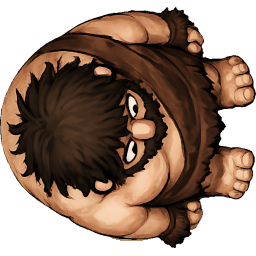
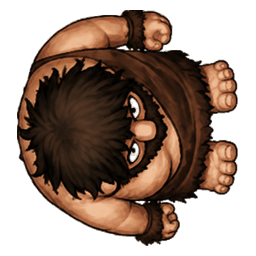
CAVEPACKER: animate player

diff --git a/src/modules/client/entities/ClientEntity.cpp b/src/modules/client/entities/ClientEntity.cpp
@@ -11,9 +11,10 @@
 
 ClientEntity::ClientEntity (const EntityType& type, uint16_t id, float x, float y, float sizeX, float sizeY,
 		const SoundMapping& soundMapping, EntityAlignment align, EntityAngle angle) :
-		_type(type), _id(id), _angle(angle), _time(0), _currSprite(), _state(0), _animation(&Animation::NONE), _theme(&ThemeType::NONE), _fadeOutTime(
-				0), _alpha(1.0f), _ropeEntity(nullptr), _animationSound(-1), _soundMapping(soundMapping), _visible(true), _visChanged(false), _align(
-				align), _screenPosX(0), _screenPosY(0), _screenWidth(0), _screenHeight(0)
+		_lerpDuration(0), _lerpElapsed(0), _type(type), _id(id), _angle(angle), _time(0), _currSprite(), _state(0),
+		_animation(&Animation::NONE), _theme(&ThemeType::NONE), _fadeOutTime(0), _alpha(1.0f), _ropeEntity(nullptr),
+		_animationSound(-1), _soundMapping(soundMapping), _visible(true), _visChanged(false), _align(align),
+		_screenPosX(0), _screenPosY(0), _screenWidth(0), _screenHeight(0)
 {
 	const vec2 startPos(x, y);
 	_prevPos = _nextPos = _pos = startPos;
@@ -210,21 +211,35 @@ void ClientEntity::setAnimationType (const Animation& animation)
 	setScreenSize(_currSprite->getMaxWidth(), _currSprite->getMaxHeight());
 }
 
-bool ClientEntity::update (uint32_t deltaTime, bool lerpPos)
+bool ClientEntity::update (uint32_t deltaTime, bool lerpPos, bool animateSpriteAlways)
 {
 	static const float interval = Constant::FPS_SERVER / (float) Constant::FPS_CLIENT;
 	_time += deltaTime;
+	bool moveLerpActive = false;
 	if (lerpPos) {
-		const vec2 before = _pos - _nextPos;
-		if (!before.isZero(0.01f)) {
-			const vec2 inc = interval * (_nextPos - _prevPos);
-			_pos += inc;
+		if (_lerpDuration > 0) {
+			_lerpElapsed = std::min(_lerpDuration, _lerpElapsed + deltaTime);
+			const float t = static_cast<float>(_lerpElapsed) / static_cast<float>(_lerpDuration);
+			_pos = _prevPos + (_nextPos - _prevPos) * t;
+			moveLerpActive = _lerpElapsed < _lerpDuration;
 		} else {
-			_pos = _nextPos;
+			const vec2 before = _pos - _nextPos;
+			if (!before.isZero(0.01f)) {
+				const vec2 inc = interval * (_nextPos - _prevPos);
+				_pos += inc;
+				moveLerpActive = true;
+			} else {
+				_pos = _nextPos;
+			}
 		}
 	}
 	if (_currSprite) {
-		_currSprite->update(deltaTime);
+		if (animateSpriteAlways || moveLerpActive) {
+			_currSprite->update(deltaTime);
+		} else if (!animateSpriteAlways) {
+			// Idle pose between grid steps
+			_currSprite->setCurrentFrame(0);
+		}
 	}
 
 	if (_visChanged) {
@@ -248,14 +263,30 @@ bool ClientEntity::update (uint32_t deltaTime, bool lerpPos)
 	return true;
 }
 
-void ClientEntity::setPos (const vec2& pos, bool lerp)
+void ClientEntity::setPos (const vec2& pos, bool lerp, uint32_t durationMillis)
 {
 	if (lerp) {
-		_prevPos = _nextPos;
+		// State-only updates (same cell) must not restart or snap the in-progress move.
+		if ((_nextPos - pos).isZero(0.01f)) {
+			return;
+		}
+		if (durationMillis > 0) {
+			// Discrete grid moves: continue from the current visual position.
+			_prevPos = _pos;
+			_lerpDuration = durationMillis;
+			_lerpElapsed = 0;
+		} else {
+			// Legacy CaveExpress-style snapshot lerp between server ticks.
+			_prevPos = _nextPos;
+			_lerpDuration = 0;
+			_lerpElapsed = 0;
+		}
 		_nextPos = pos;
 		_pos = _prevPos;
 	} else {
 		_prevPos = _nextPos = _pos = pos;
+		_lerpDuration = 0;
+		_lerpElapsed = 0;
 	}
 }
 

diff --git a/src/modules/client/entities/ClientEntity.h b/src/modules/client/entities/ClientEntity.h
@@ -40,11 +40,21 @@ public:
 	SpritePtr& getSprite ();
 	const vec2& getPos () const;
 	const vec2& getSize () const;
-	virtual bool update (uint32_t deltaTime, bool lerpPos);
+	/**
+	 * @param[in] animateSpriteAlways if false, multi-frame sprites only advance while a timed move lerp is active
+	 */
+	virtual bool update (uint32_t deltaTime, bool lerpPos, bool animateSpriteAlways = true);
+
+	/** When true and the map uses timed grid lerps, walk frames only advance while sliding between cells. */
+	virtual bool animateSpriteOnlyWhenMoving () const { return false; }
 	void setAnimationType (const Animation& type);
 	void setThemeType (const ThemeType& theme);
 	virtual std::string getSpriteName() const;
-	void setPos (const vec2& pos, bool lerp);
+	/**
+	 * @param[in] lerp whether to interpolate toward @c pos
+	 * @param[in] durationMillis time-based lerp duration; 0 keeps the legacy frame-ratio lerp
+	 */
+	void setPos (const vec2& pos, bool lerp, uint32_t durationMillis = 0);
 	Direction getMoveDirection ();
 	void setAngle (int16_t angle);
 	void initFadeOut ();
@@ -131,6 +141,9 @@ protected:
 	vec2 _nextPos;
 	// used for lerping the position
 	vec2 _prevPos;
+	// time-based lerp (durationMillis > 0 in setPos); 0 means legacy frame-ratio lerp
+	uint32_t _lerpDuration;
+	uint32_t _lerpElapsed;
 	// the size of the entity. This might differ from what the physical size is in the server
 	vec2 _size;
 	const EntityType &_type;

diff --git a/src/modules/client/ClientMap.cpp b/src/modules/client/ClientMap.cpp
@@ -415,8 +415,10 @@ void ClientMap::update (uint32_t deltaTime)
 	}
 	const ExecutionTime updateTime("ClientMap", 2000L);
 	const bool lerp = wantLerp();
+	const bool timedGridLerp = getEntityMoveLerpMillis() != 0;
 	for (ClientEntityMapIter i = _entities.begin(); i != _entities.end();) {
-		const bool val = i->second->update(deltaTime, lerp);
+		const bool animateSpriteAlways = !timedGridLerp || !i->second->animateSpriteOnlyWhenMoving();
+		const bool val = i->second->update(deltaTime, lerp, animateSpriteAlways);
 		if (!val) {
 			delete i->second;
 			_entities.erase(i++);
@@ -490,7 +492,7 @@ bool ClientMap::updateEntity (uint16_t id, float x, float y, EntityAngle angle, 
 {
 	const ClientEntityMapIter& iter = _entities.find(id);
 	if (iter != _entities.end()) {
-		iter->second->setPos(vec2(x, y), wantLerp());
+		iter->second->setPos(vec2(x, y), wantLerp(), getEntityMoveLerpMillis());
 		iter->second->setAngle(angle);
 		iter->second->changeState(state);
 		return true;

diff --git a/src/cavepacker/client/CavePackerClientMap.cpp b/src/cavepacker/client/CavePackerClientMap.cpp
@@ -15,6 +15,7 @@ CavePackerClientMap::CavePackerClientMap(int x, int y, int width, int height,
 		IFrontend *frontend, ServiceProvider& serviceProvider, int referenceTileWidth) :
 		ClientMap(x, y, width, height, frontend, serviceProvider, referenceTileWidth), _target(nullptr), _targetEnts(0u) {
 	_deadlockOverlay = UI::get().loadSprite("deadlock");
+	_moveLerpMillis = Config.getConfigVar("clientmovelerpmillis", "200");
 }
 
 void CavePackerClientMap::onWindowResize () {
@@ -58,6 +59,11 @@ void CavePackerClientMap::renderLayer (int x, int y, Layer layer) const {
 
 void CavePackerClientMap::start() {
 	ClientMap::start();
+}
+
+uint32_t CavePackerClientMap::getEntityMoveLerpMillis () const {
+	// Slightly under the 250ms pathfinding/auto-solve step so chained grid moves stay readable.
+	return _moveLerpMillis->getIntValue();
 }
 
 void CavePackerClientMap::undo() {

diff --git a/src/caveexpress/client/entities/ClientParticle.cpp b/src/caveexpress/client/entities/ClientParticle.cpp
@@ -79,7 +79,7 @@ void ClientParticle::render (IFrontend *frontend, Layer layer, int scale, float 
 	}
 }
 
-bool ClientParticle::update (uint32_t deltaTime, bool lerpPos)
+bool ClientParticle::update (uint32_t deltaTime, bool lerpPos, bool animateSpriteAlways)
 {
 	for (int i = 0; i < _maxParticles; ++i) {
 		ParticleData &p = _particles[i];
@@ -90,7 +90,7 @@ bool ClientParticle::update (uint32_t deltaTime, bool lerpPos)
 		else
 			p.lifetime -= deltaTime;
 	}
-	return ClientEntity::update(deltaTime, lerpPos);
+	return ClientEntity::update(deltaTime, lerpPos, animateSpriteAlways);
 }
 
 ClientEntityPtr ClientParticle::Factory::create (const ClientEntityFactoryContext *ctx) const

diff --git a/src/caveexpress/client/entities/ClientNPC.cpp b/src/caveexpress/client/entities/ClientNPC.cpp
@@ -12,8 +12,8 @@ ClientNPC::ClientNPC(const EntityType& type, uint16_t id, const Animation& anima
 ClientNPC::~ClientNPC() {
 }
 
-bool ClientNPC::update(uint32_t deltaTime, bool lerpPos) {
-	const bool val = ClientEntity::update(deltaTime, lerpPos);
+bool ClientNPC::update(uint32_t deltaTime, bool lerpPos, bool animateSpriteAlways) {
+	const bool val = ClientEntity::update(deltaTime, lerpPos, animateSpriteAlways);
 	if (_speechBubbleDelay < _time) {
 		_speechBubbleDelay = 0;
 		removeOverlay(_targetCaveSprite);

diff --git a/src/cavepacker/client/CavePackerClientMap.h b/src/cavepacker/client/CavePackerClientMap.h
@@ -10,6 +10,7 @@ private:
 	SpritePtr _deadlockOverlay;
 	mutable RenderTarget* _target;
 	mutable std::size_t _targetEnts;
+	ConfigVarPtr _moveLerpMillis;
 	void renderLayer (int x, int y, Layer layer) const override;
 
 public:
@@ -25,6 +26,8 @@ public:
 	int getWaterSurface() const override { return 0; }
 	int getWaterGround() const override { return 0; }
 	float getWind() const override { return 0.f; }
+
+	uint32_t getEntityMoveLerpMillis () const override;
 
 	void undo ();
 

diff --git a/src/modules/client/ClientMap.h b/src/modules/client/ClientMap.h
@@ -93,6 +93,12 @@ protected:
 
 	virtual bool wantLerp () { return _restartDue == 0; }
 
+	/**
+	 * Duration for client-side move interpolation in milliseconds.
+	 * 0 keeps the legacy frame-ratio lerp used by CaveExpress.
+	 */
+	virtual uint32_t getEntityMoveLerpMillis () const { return 0; }
+
 public:
 	ClientMap (int x, int y, int width, int height, IFrontend *frontend, ServiceProvider& serviceProvider, int referenceTileWidth);
 	virtual ~ClientMap ();

diff --git a/src/modules/client/entities/ClientMapTile.cpp b/src/modules/client/entities/ClientMapTile.cpp
@@ -27,12 +27,9 @@ void ClientMapTile::setNewSprite (const std::string& spriteName)
 		_currSprite = sprite;
 }
 
-bool ClientMapTile::update (uint32_t deltaTime, bool lerpPos)
+bool ClientMapTile::update (uint32_t deltaTime, bool lerpPos, bool animateSpriteAlways)
 {
-	ClientEntity::update(deltaTime, lerpPos);
-	if (_currSprite)
-		_currSprite->update(deltaTime);
-
+	ClientEntity::update(deltaTime, lerpPos, animateSpriteAlways);
 	return true;
 }
 

diff --git a/src/caveexpress/client/entities/ClientParticle.h b/src/caveexpress/client/entities/ClientParticle.h
@@ -40,7 +40,7 @@ public:
 
 	// ClientEntity
 	std::string getSpriteName() const override;
-	bool update (uint32_t deltaTime, bool lerpPos) override;
+	bool update (uint32_t deltaTime, bool lerpPos, bool animateSpriteAlways = true) override;
 	void render (IFrontend *frontend, Layer layer, int scale, float zoom, int offsetX, int offsetY, int mapPixelWidth, int mapPixelHeight) const override;
 };
 

diff --git a/src/caveexpress/client/entities/ClientNPC.h b/src/caveexpress/client/entities/ClientNPC.h
@@ -23,7 +23,7 @@ public:
 
 	// ClientEntity
 	void changeState(uint8_t state) override;
-	bool update(uint32_t deltaTime, bool lerpPos) override;
+	bool update(uint32_t deltaTime, bool lerpPos, bool animateSpriteAlways = true) override;
 };
 
 typedef ClientNPC* ClientNPCPtr;

diff --git a/src/modules/client/entities/ClientMapTile.h b/src/modules/client/entities/ClientMapTile.h
@@ -27,5 +27,5 @@ public:
 	void setNewSprite (const std::string& spriteName);
 
 	// ClientEntity
-	bool update (uint32_t deltaTime, bool lerpPos) override;
+	bool update (uint32_t deltaTime, bool lerpPos, bool animateSpriteAlways = true) override;
 };
